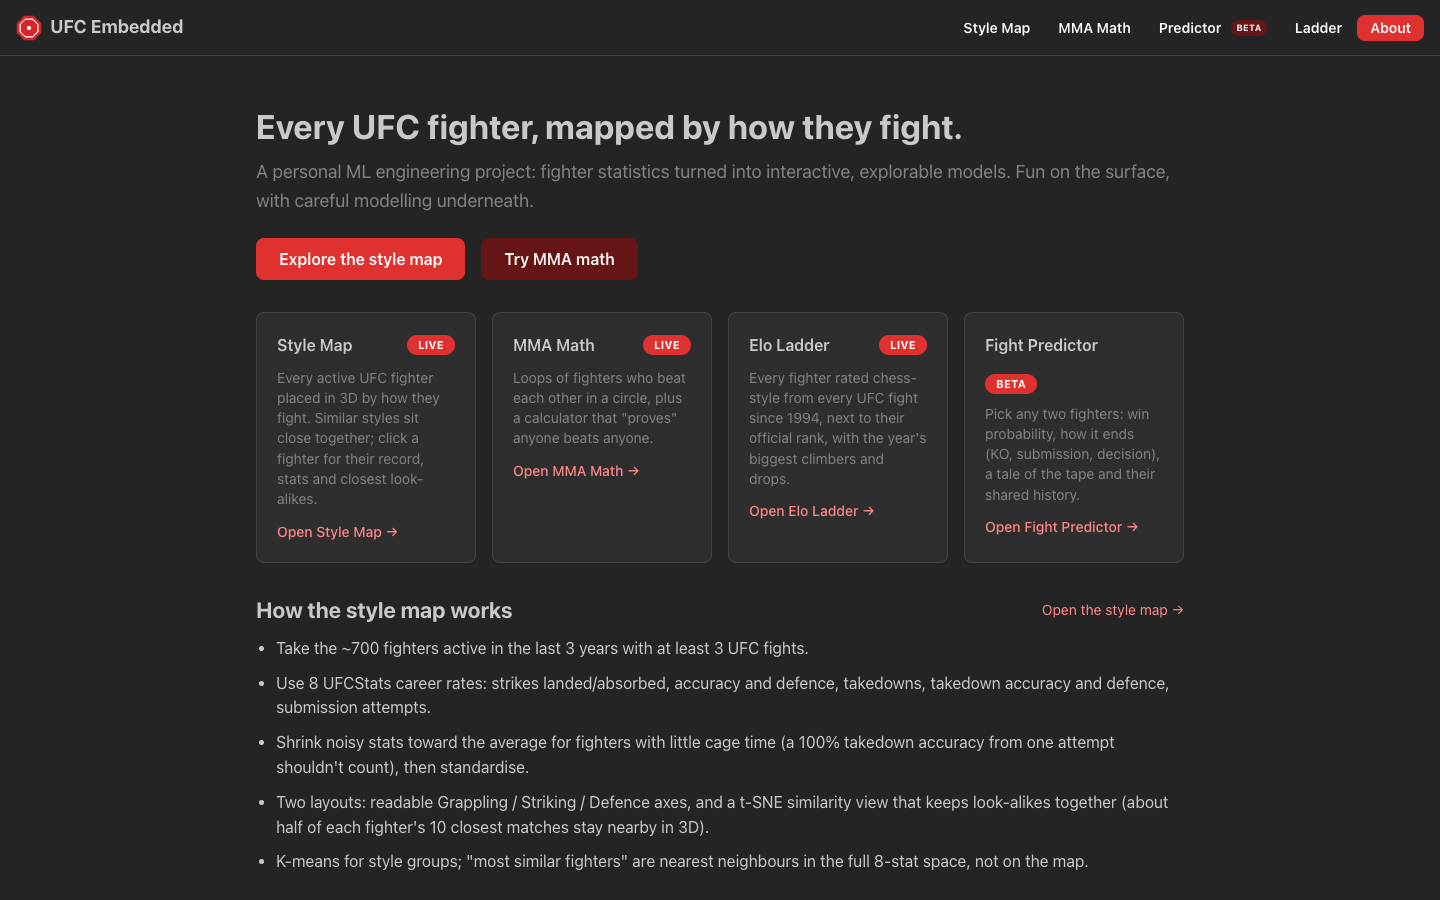
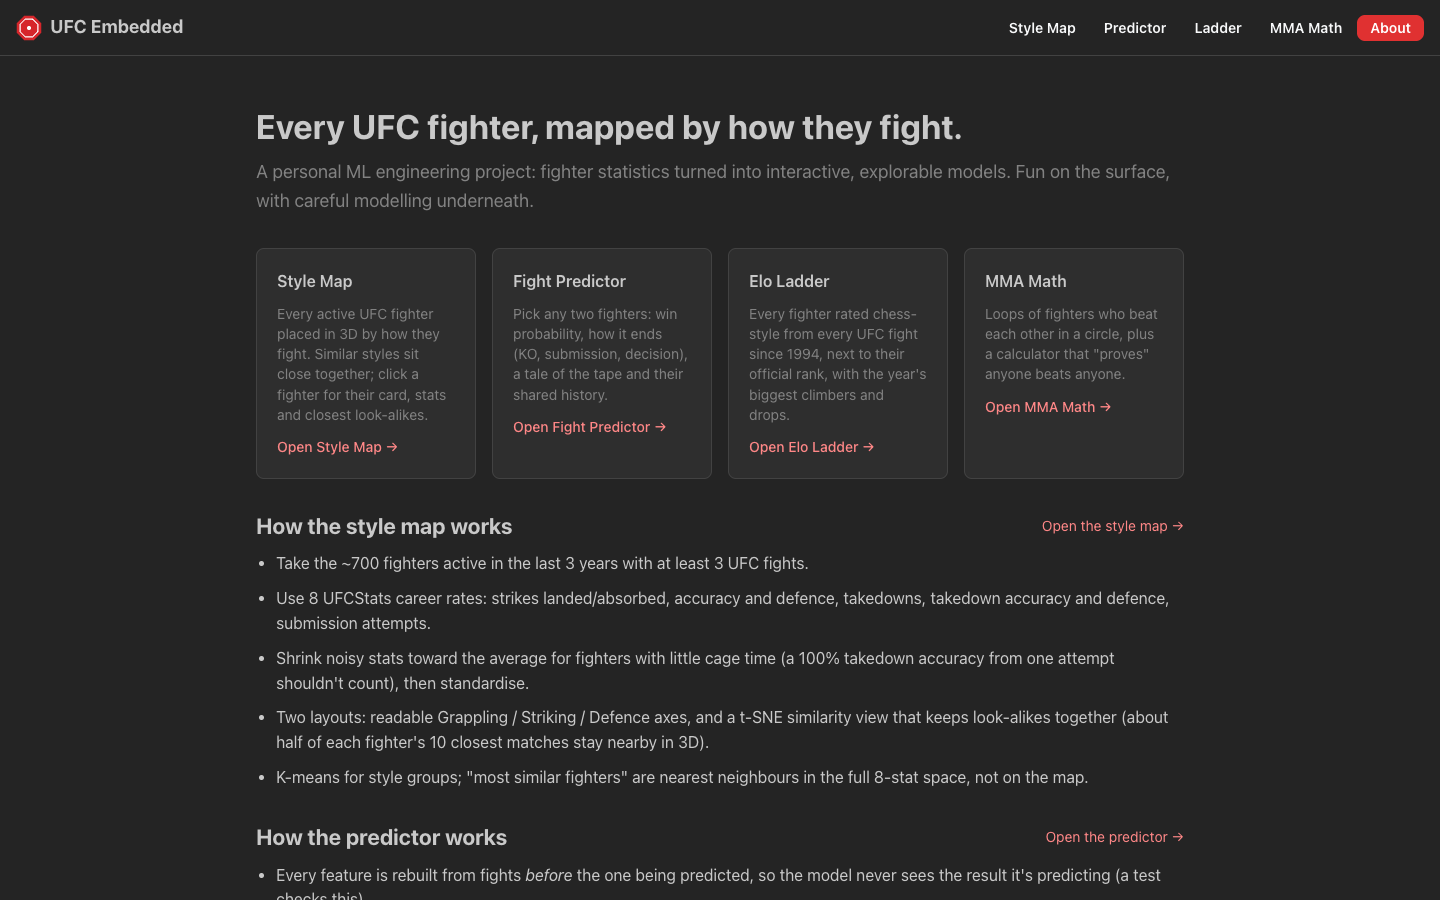
docs: match the README to the new page order and retake the screenshots

diff --git a/README.md b/README.md
@@ -15,24 +15,24 @@ bookmakers, via Kaggle). Works on desktop and phone; fully static, hosted free o
       <sub><b>Style Map</b>: 3D map of fighting styles</sub>
     </td>
     <td width="50%" valign="top">
-      <a href="https://abbasly.github.io/ufc_embedded/mma-math"><img src="docs/screenshots/mma-math.png" alt="MMA math"></a><br>
-      <sub><b>MMA Math</b>: any fighter &ldquo;beats&rdquo; any other</sub>
-    </td>
-  </tr>
-  <tr>
-    <td width="50%" valign="top">
       <a href="https://abbasly.github.io/ufc_embedded/predictor"><img src="docs/screenshots/predictor.png" alt="Fight predictor"></a><br>
       <sub><b>Fight Predictor</b>: win chance and most likely outcome</sub>
     </td>
+  </tr>
+  <tr>
     <td width="50%" valign="top">
       <a href="https://abbasly.github.io/ufc_embedded/predictor"><img src="docs/screenshots/card-flip.png" alt="Flipped fighter card"></a><br>
       <sub>Cards flip to a <b>fighter file</b>: record, recent form, stats</sub>
     </td>
-  </tr>
-  <tr>
     <td width="50%" valign="top">
       <a href="https://abbasly.github.io/ufc_embedded/ladder"><img src="docs/screenshots/ladder.png" alt="Elo ladder"></a><br>
       <sub><b>Elo Ladder</b>: ratings, official ranks, climbers and drops</sub>
+    </td>
+  </tr>
+  <tr>
+    <td width="50%" valign="top">
+      <a href="https://abbasly.github.io/ufc_embedded/mma-math"><img src="docs/screenshots/mma-math.png" alt="MMA math"></a><br>
+      <sub><b>MMA Math</b>: any fighter &ldquo;beats&rdquo; any other</sub>
     </td>
     <td width="50%" valign="top">
       <a href="https://abbasly.github.io/ufc_embedded/about"><img src="docs/screenshots/about.png" alt="About page"></a><br>
@@ -46,13 +46,13 @@ bookmakers, via Kaggle). Works on desktop and phone; fully static, hosted free o
 - **[Style Map](https://abbasly.github.io/ufc_embedded/)**: ~700 active fighters placed in 3D by how they fight. Click anyone for
   their card, stats, ranking and closest look-alikes. Readable style axes or a t-SNE similarity
   view; filter by style, weight class, champions or ranked fighters.
-- **[MMA Math](https://abbasly.github.io/ufc_embedded/mma-math)**: loops of fighters who beat each other in a circle, and a
-  calculator that "proves" any fighter beats any other with a chain of wins, drawn as a circle.
-- **[Fight Predictor](https://abbasly.github.io/ufc_embedded/predictor)** (beta): pick two fighters for the win chance and the most
+- **[Fight Predictor](https://abbasly.github.io/ufc_embedded/predictor)**: pick two fighters for the win chance and the most
   likely outcome (who, and by KO / submission / decision), what drives the call, past meetings
   and common opponents, and a tale of the tape.
 - **[Elo Ladder](https://abbasly.github.io/ufc_embedded/ladder)**: every fighter rated chess-style from every UFC fight since 1994,
   next to their official rank, with the year's biggest climbers and drops.
+- **[MMA Math](https://abbasly.github.io/ufc_embedded/mma-math)**: loops of fighters who beat each other in a circle, and a
+  calculator that "proves" any fighter beats any other with a chain of wins, drawn as a circle.
 - **Fighter cards everywhere**: collectible-style cards (style = card type, Elo where the HP would
   be, signature stats as moves, gold holo for champions) that flip in 3D to a fighter file. They
   show up in the predictor, the style map, MMA math hovers and the ladder.
@@ -149,7 +149,7 @@ leaderboard and the dataset) is logged to Weights & Biases.
 
 **Reality check.** Scored with pre-fight data only, the v1 model got 5 of 14 winners right at
 UFC 333 (2026-10-24), including both headliners wrong. One card is a small sample, but it shows
-what career averages miss (rematches, decline with age, short UFC records). Hence "beta".
+what career averages miss (rematches, decline with age, short UFC records).
 
 **In the browser.** `train.py --features v1|v2` (default v2) exports the deployed weights (fit
 on fights before 2024) and every active fighter's features as of today to `predictor.json`;
